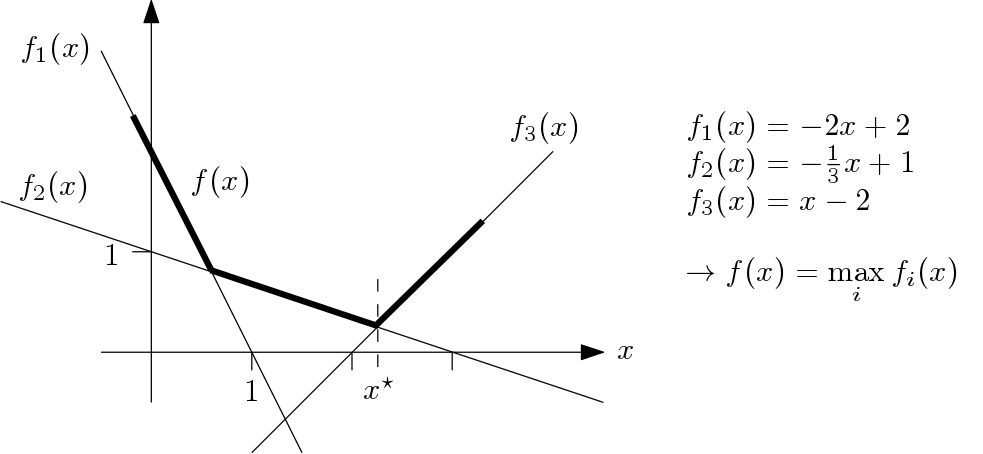
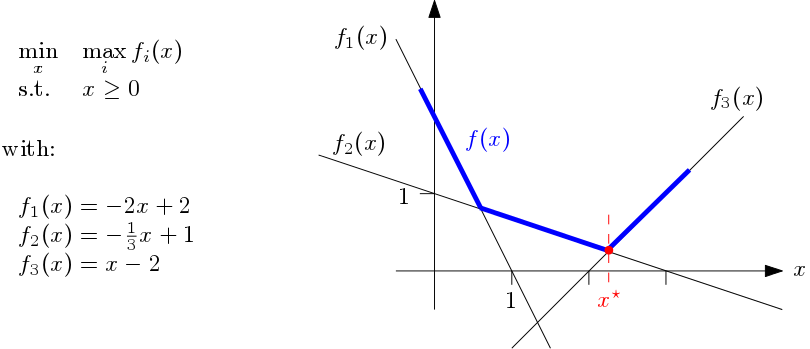
illustration and README fixes

diff --git a/nsopy/tests/test_bundle_methods.py b/nsopy/tests/test_bundle_methods.py
@@ -4,7 +4,7 @@ from nsopy.method_loggers import EnhancedDualMethodLogger
 from nsopy.tests.analytical_oracles import AnalyticalExampleInnerProblem, SecondAnalyticalExampleInnerProblem, ConstrainedDualAnalyticalExampleInnerProblem
 
 
-##################
+##################`dimension
 # CUTTING PLANES #
 ##################
 

diff --git a/README.md b/README.md
@@ -21,20 +21,18 @@ Optional: tests are in ```./nsopy/tests/``` and can be run with the ```py.test``
 
 ## Basic Usage Example
 
-We want to minimize the non-differentiable function obtained by taking the `max` over a set of functions:
+We want to minimize a non-differentiable function obtained by taking the `max` over a set of functions. 
+The feasible set considered is the set of non-negative real numbers, i.e., ![Rplus](img/feas_set.png), 
+for which the projection operation is straightforward. 
 <p align="center">
   <img src="./img/basic_example.png" alt="Example" width="65%" href="#"/>
 </p>
 
 It is straightforward to see that the optimum is at `x* = 2.25`; we can solve this optimization problem numerically as follows:
 ~~~~
-from nsopy import SubgradientMethod
-from nsopy.method_loggers import GenericMethodLogger
-import numpy as np
-
 def oracle(x_k):
     # evaluation of the f_i components at x_k
-    fi_x_k = [-2*x_k + 2,  -1.0/3*x_k + 1, x_k - 2]
+    fi_x_k = [-2*x_k + 2,  -1.0/3*x_k + 1,  x_k - 2]
 
     f_x_k = max(fi_x_k)  # function value at x_k
 
@@ -45,7 +43,10 @@ def oracle(x_k):
     return 0, f_x_k, diff_f_xk
 
 def projection_function(x_k):
-    return x_k if x_k is not 0 else np.array([0,])
+    if x_k is 0:
+        return np.array([0,])
+    else:
+        return np.maximum(x_k, 0)
 ~~~~
 Instantiation of method and logger, solve and print
 ~~~~
@@ -57,9 +58,9 @@ for iteration in range(200):
 ~~~~
 Result:
 ~~~~
->>> print(logger.x_k_iterates[-1])
+>>> print(logger.x_k_iterates[-5:])
 
-[array([2.2]), array([2.21666667]), array([2.23333333]), array([2.25]), array([2.26666667])]
+[2.1999999999999904, 2.216666666666657, 2.2333333333333236, 2.2499999999999902, 2.266666666666657]
 ~~~~
 
 
@@ -116,6 +117,10 @@ BundleMethod(oracle, projection_function, epsilon=0.01, mu=0.5, sense='max'):
 
 
 ## Important Remarks
+
+* The basic usage example illustrates how the oracle can implement a special case to respond to an initial request with "x_k = 0", 
+when the solution method still doesn't know the dimension of x. Alternatively, methods can be instantiated with the argument `dimension`, 
+in which case the oracle doesn't need to implement a special case for 0.  
 
 * The first-order oracle must also provide a projection function; [here is a list of cases](img/simple_projections.png) for which 
 the projection operation is computationally inexpensive.
